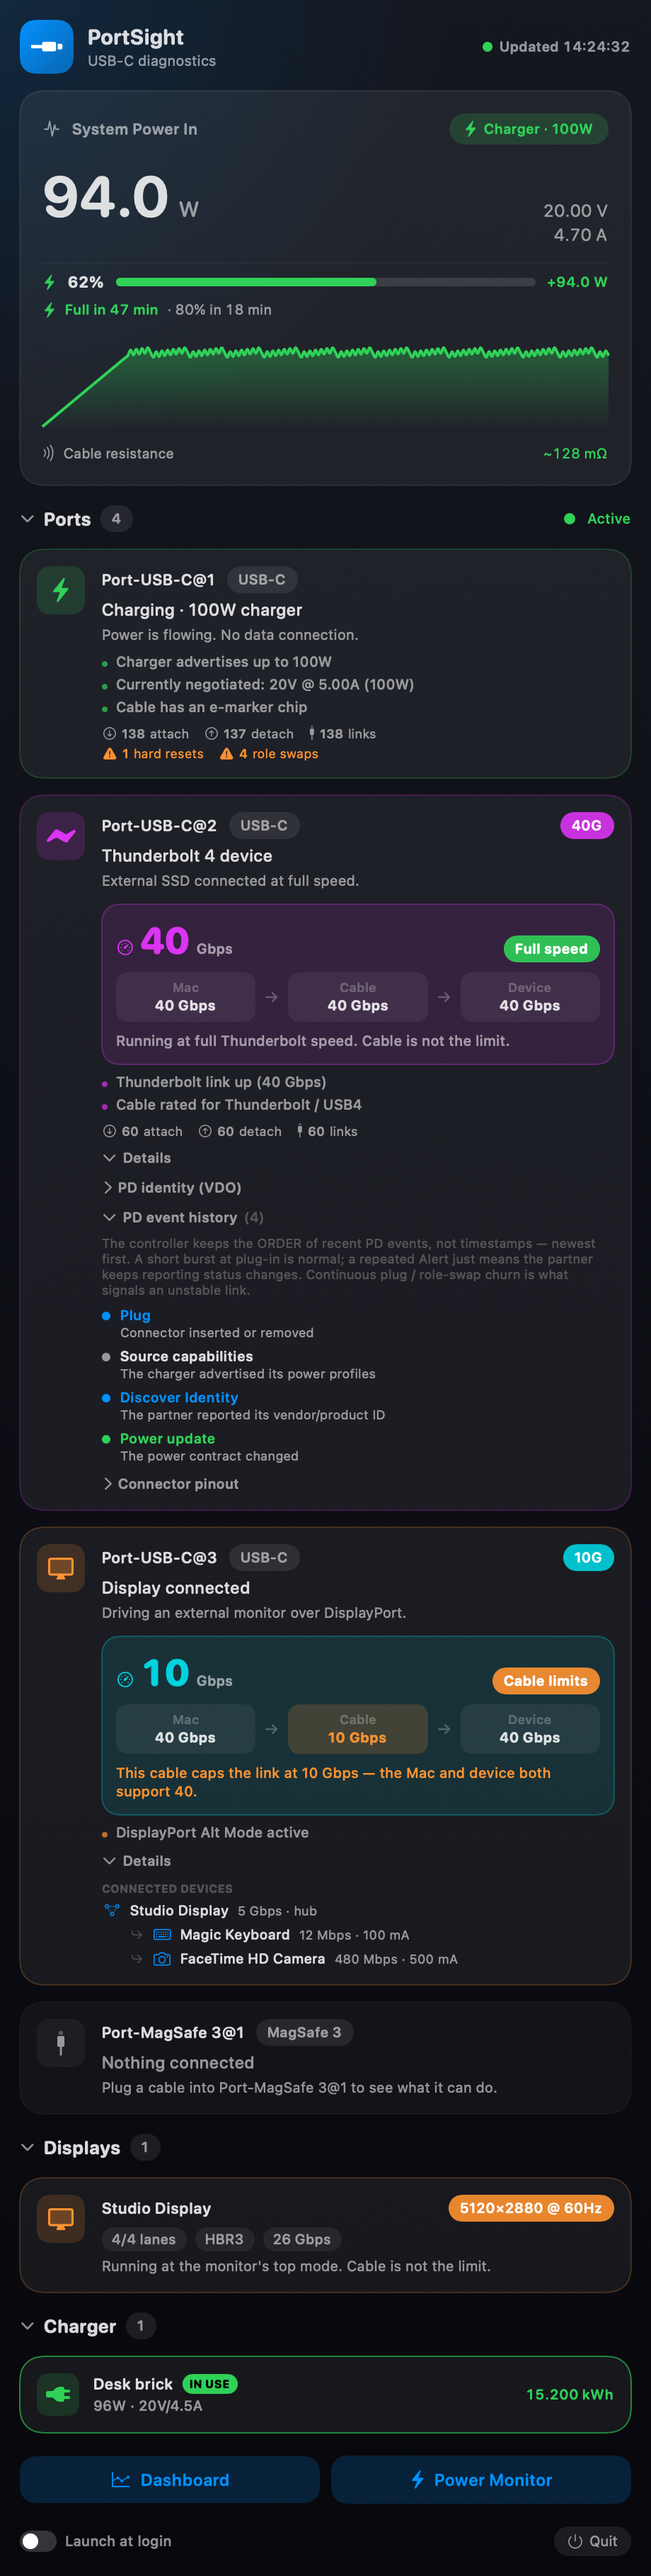
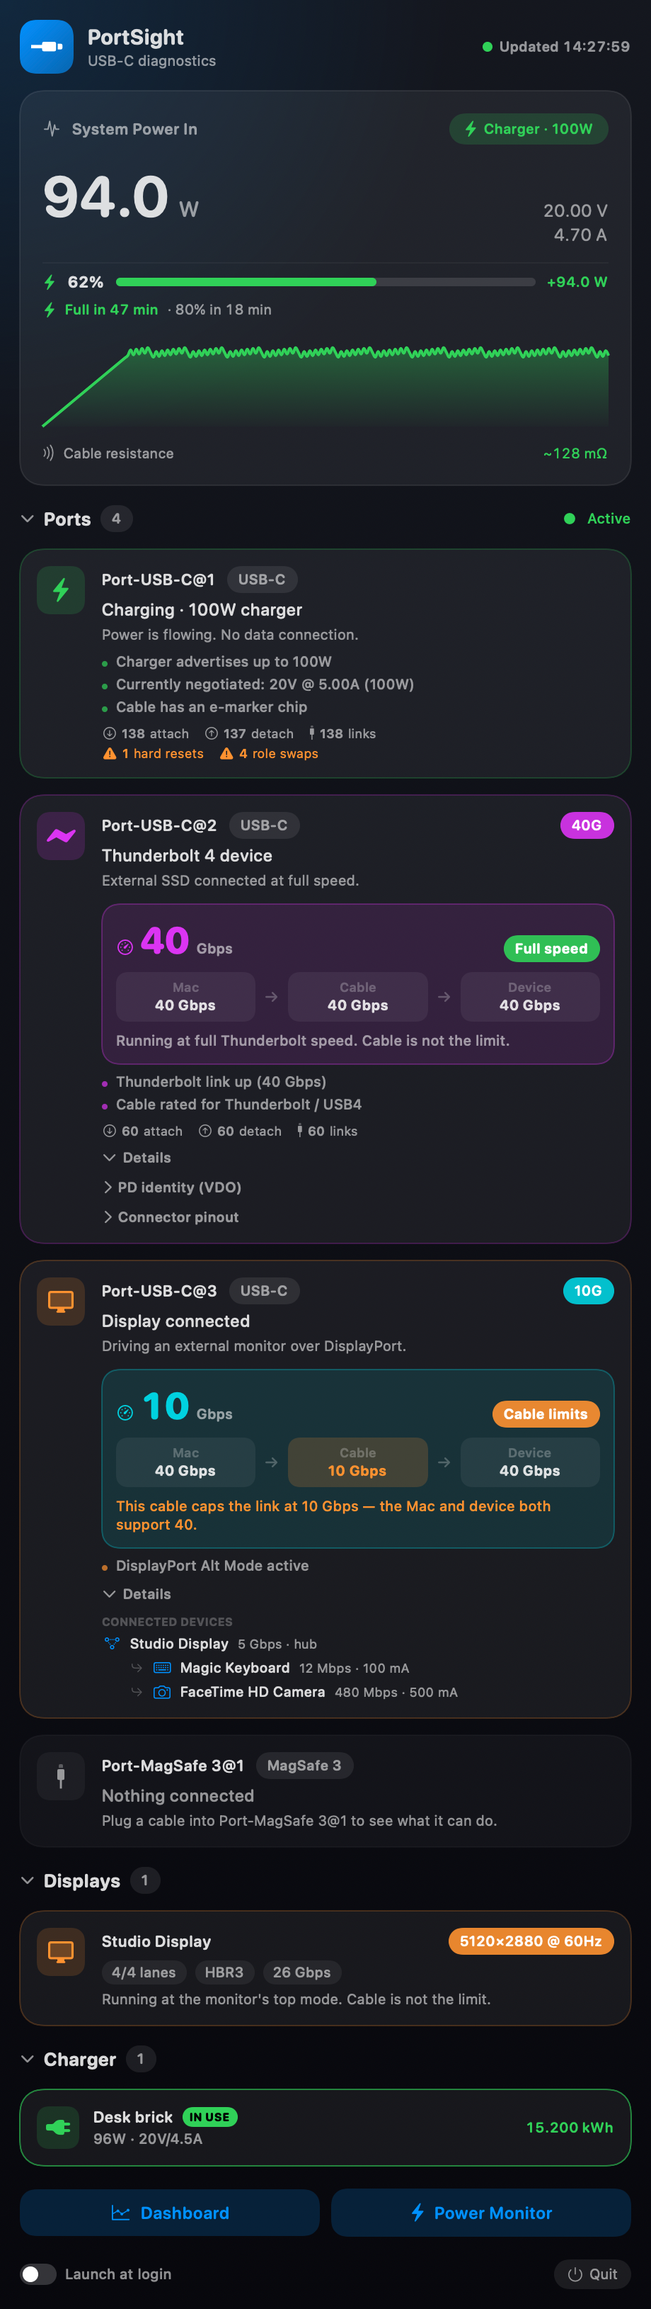
Remove PD event history from UI (not useful without timestamps); bump to 0.1.1

Changed region(s): [[0.0304, 0.0, 0.9739, 0.9917], [0.6391, 0.8058, 0.9435, 0.8987], [0.5478, 0.8678, 0.6087, 0.8987]]

diff --git a/Sources/CableProUI/PortCard.swift b/Sources/CableProUI/PortCard.swift
@@ -7,13 +7,12 @@ struct PortCard: View {
     // Collapsed by default live; expanded in preview (flat) so the render shows it.
     @State private var expanded = Theme.flat
     @State private var showPins = false
-    @State private var showEvents = Theme.flat   // expanded only in offscreen previews
     @State private var showVDO = false
 
     private var s: PortSummary { vm.summary }
     private var accent: Color { s.status.accent }
     private var isEmpty: Bool { s.status == .empty }
-    private var hasDetails: Bool { vm.pins != nil || vm.vdo != nil || !vm.events.isEmpty || !vm.devices.isEmpty }
+    private var hasDetails: Bool { vm.pins != nil || vm.vdo != nil || !vm.devices.isEmpty }
 
     var body: some View {
         HStack(alignment: .top, spacing: 12) {
@@ -104,8 +103,7 @@ struct PortCard: View {
                     if !expanded {
                         Text([vm.devices.isEmpty ? nil : "\(vm.devices.count) devices",
                               vm.pins != nil ? "pins" : nil,
-                              vm.vdo != nil ? "VDO" : nil,
-                              vm.events.isEmpty ? nil : "events"]
+                              vm.vdo != nil ? "VDO" : nil]
                                 .compactMap { $0 }.joined(separator: " · "))
                             .foregroundStyle(.tertiary)
                     }
@@ -118,7 +116,6 @@ struct PortCard: View {
             if expanded {
                 if !vm.devices.isEmpty { deviceTree }
                 if let vdo = vm.vdo { vdoSection(vdo) }
-                if !vm.events.isEmpty { eventTrace }
                 if let pins = vm.pins {
                     VStack(alignment: .leading, spacing: 6) {
                         Button { withAnimation(.easeInOut(duration: 0.15)) { showPins.toggle() } } label: {
@@ -177,53 +174,6 @@ struct PortCard: View {
                     .fixedSize(horizontal: false, vertical: true)
                 VDOInspectorView(info: vdo)
             }
-        }
-    }
-
-    private var eventTrace: some View {
-        VStack(alignment: .leading, spacing: 6) {
-            Button { withAnimation(.easeInOut(duration: 0.15)) { showEvents.toggle() } } label: {
-                HStack(spacing: 4) {
-                    Image(systemName: showEvents ? "chevron.down" : "chevron.right")
-                    Text("PD event history").fontWeight(.semibold)
-                    Text("(\(vm.events.count))").foregroundStyle(.tertiary)
-                    Spacer()
-                }
-                .font(.system(.caption2, design: .rounded)).foregroundStyle(.secondary)
-            }
-            .buttonStyle(.plain)
-
-            if showEvents {
-                Text("The controller keeps the ORDER of recent PD events, not timestamps — newest first. A short burst at plug-in is normal; a repeated Alert just means the partner keeps reporting status changes. Continuous plug / role-swap churn is what signals an unstable link.")
-                    .font(.system(size: 9)).foregroundStyle(.tertiary)
-                    .fixedSize(horizontal: false, vertical: true)
-                VStack(alignment: .leading, spacing: 5) {
-                    ForEach(vm.events) { e in
-                        HStack(alignment: .top, spacing: 7) {
-                            Circle().fill(eventColor(e.severity))
-                                .frame(width: 6, height: 6).padding(.top, 4)
-                            VStack(alignment: .leading, spacing: 0) {
-                                Text(e.label)
-                                    .font(.system(.caption2, design: .rounded).weight(.semibold))
-                                    .foregroundStyle(eventColor(e.severity) == .secondary ? .primary : eventColor(e.severity))
-                                Text(e.detail).font(.system(size: 9)).foregroundStyle(.secondary)
-                                    .fixedSize(horizontal: false, vertical: true)
-                            }
-                            Spacer(minLength: 0)
-                        }
-                    }
-                }
-            }
-        }
-    }
-
-    private func eventColor(_ s: SpeedVM.Severity) -> Color {
-        switch s {
-        case .good: return .green
-        case .warn: return .orange
-        case .info: return .blue
-        case .neutral: return .secondary
-        case .critical: return .red
         }
     }
 
